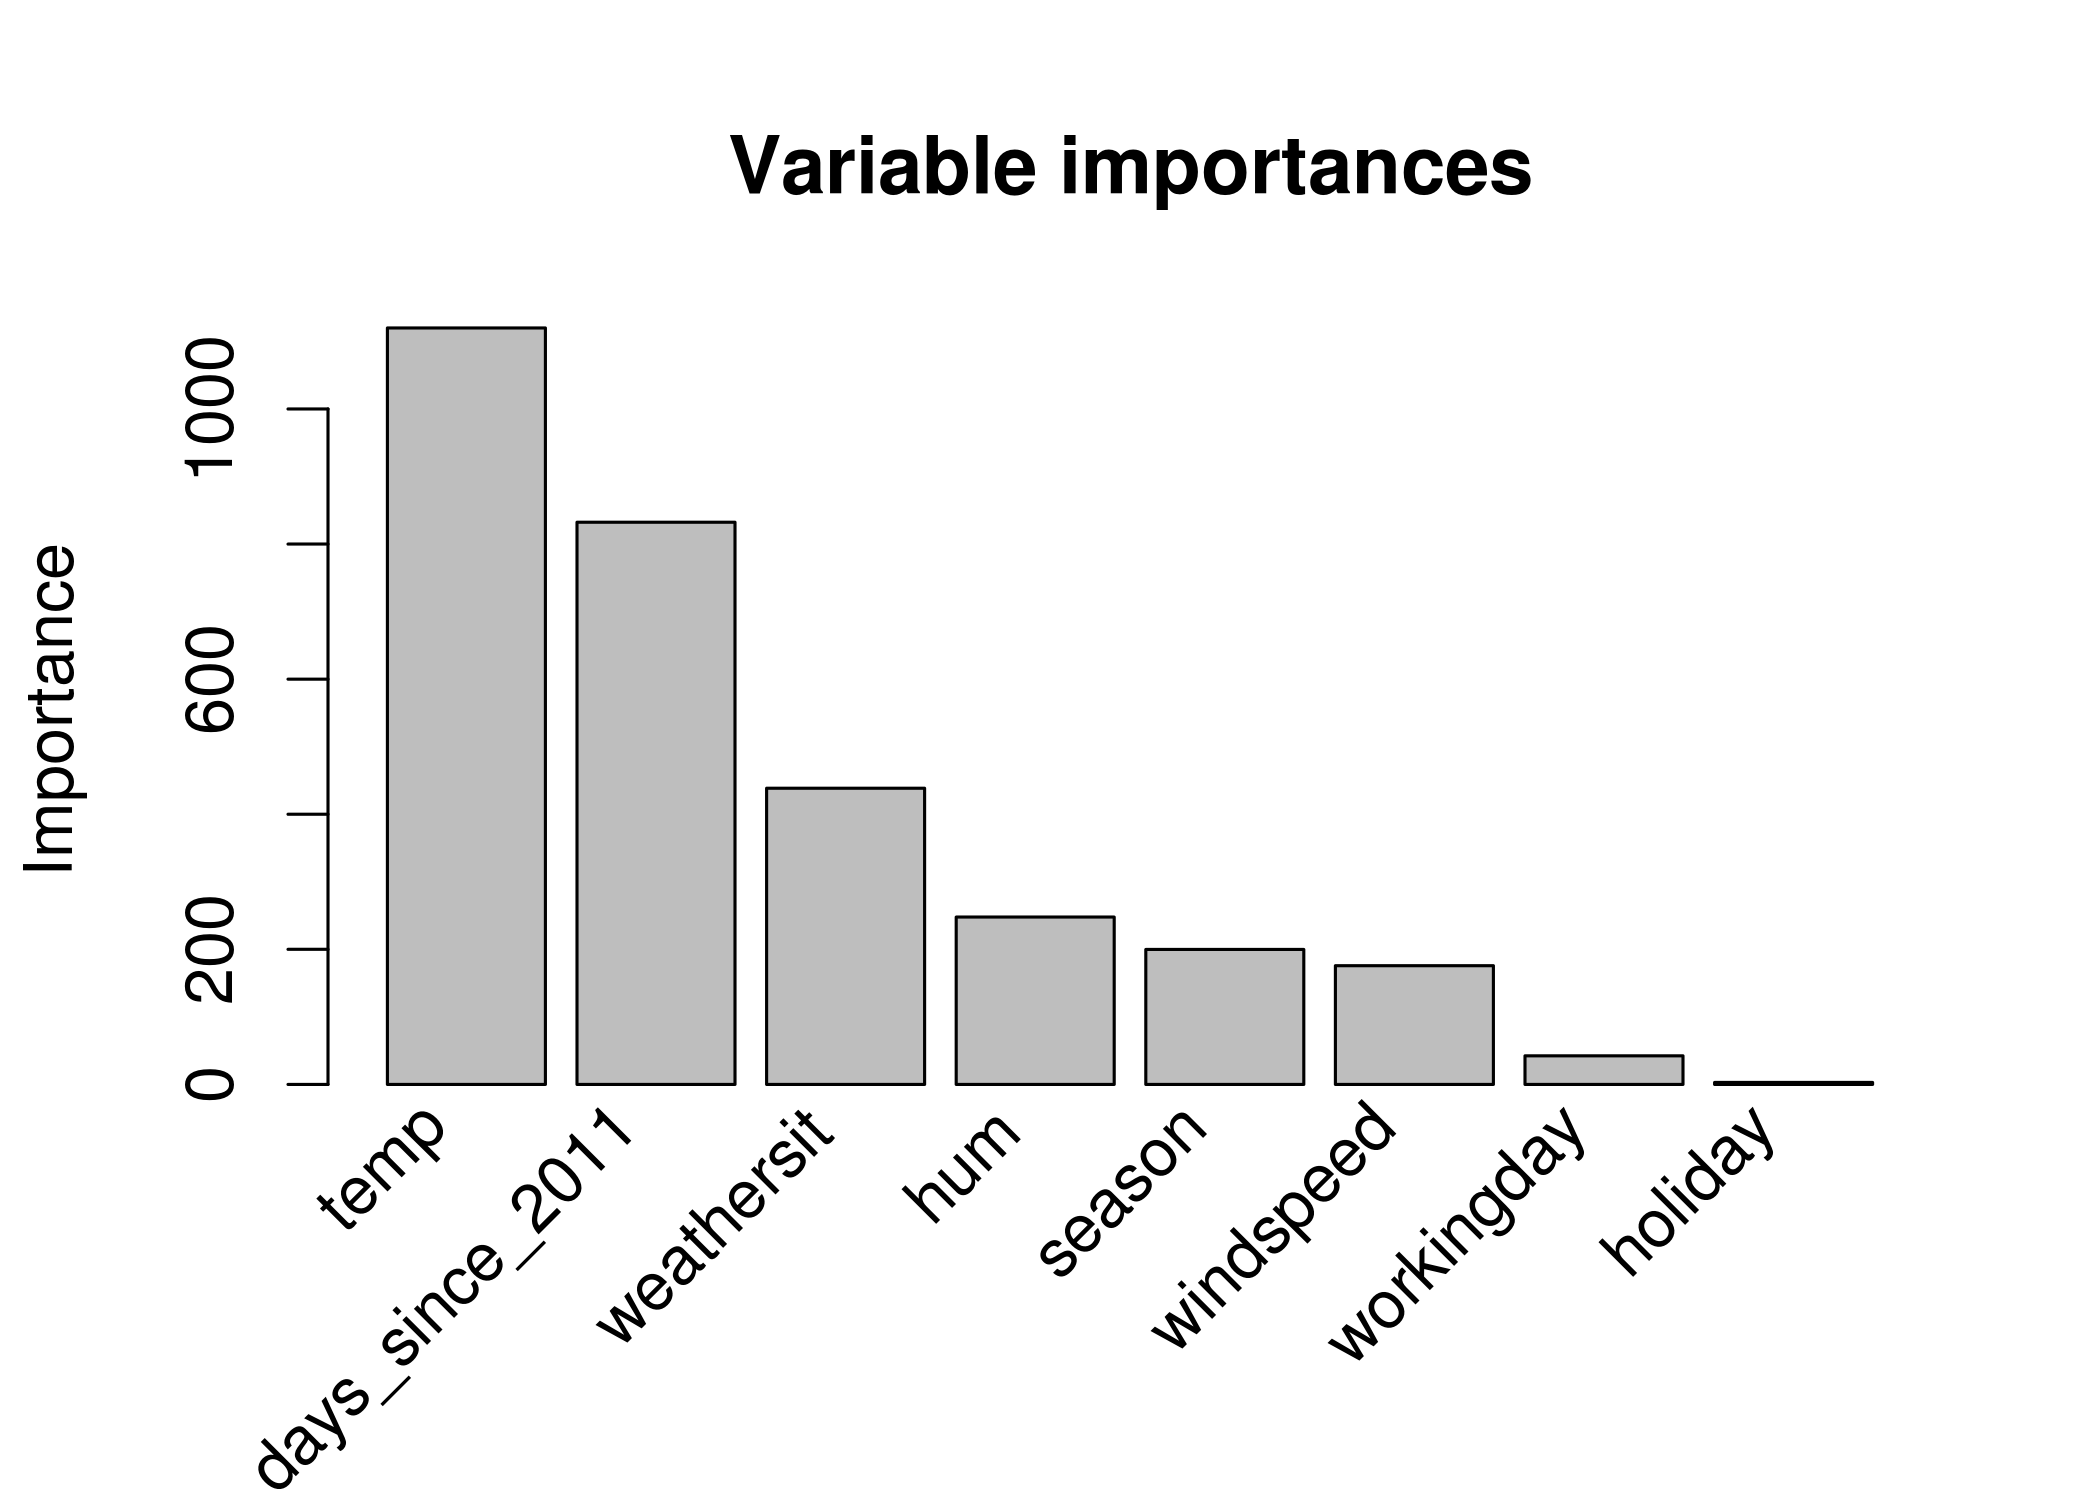
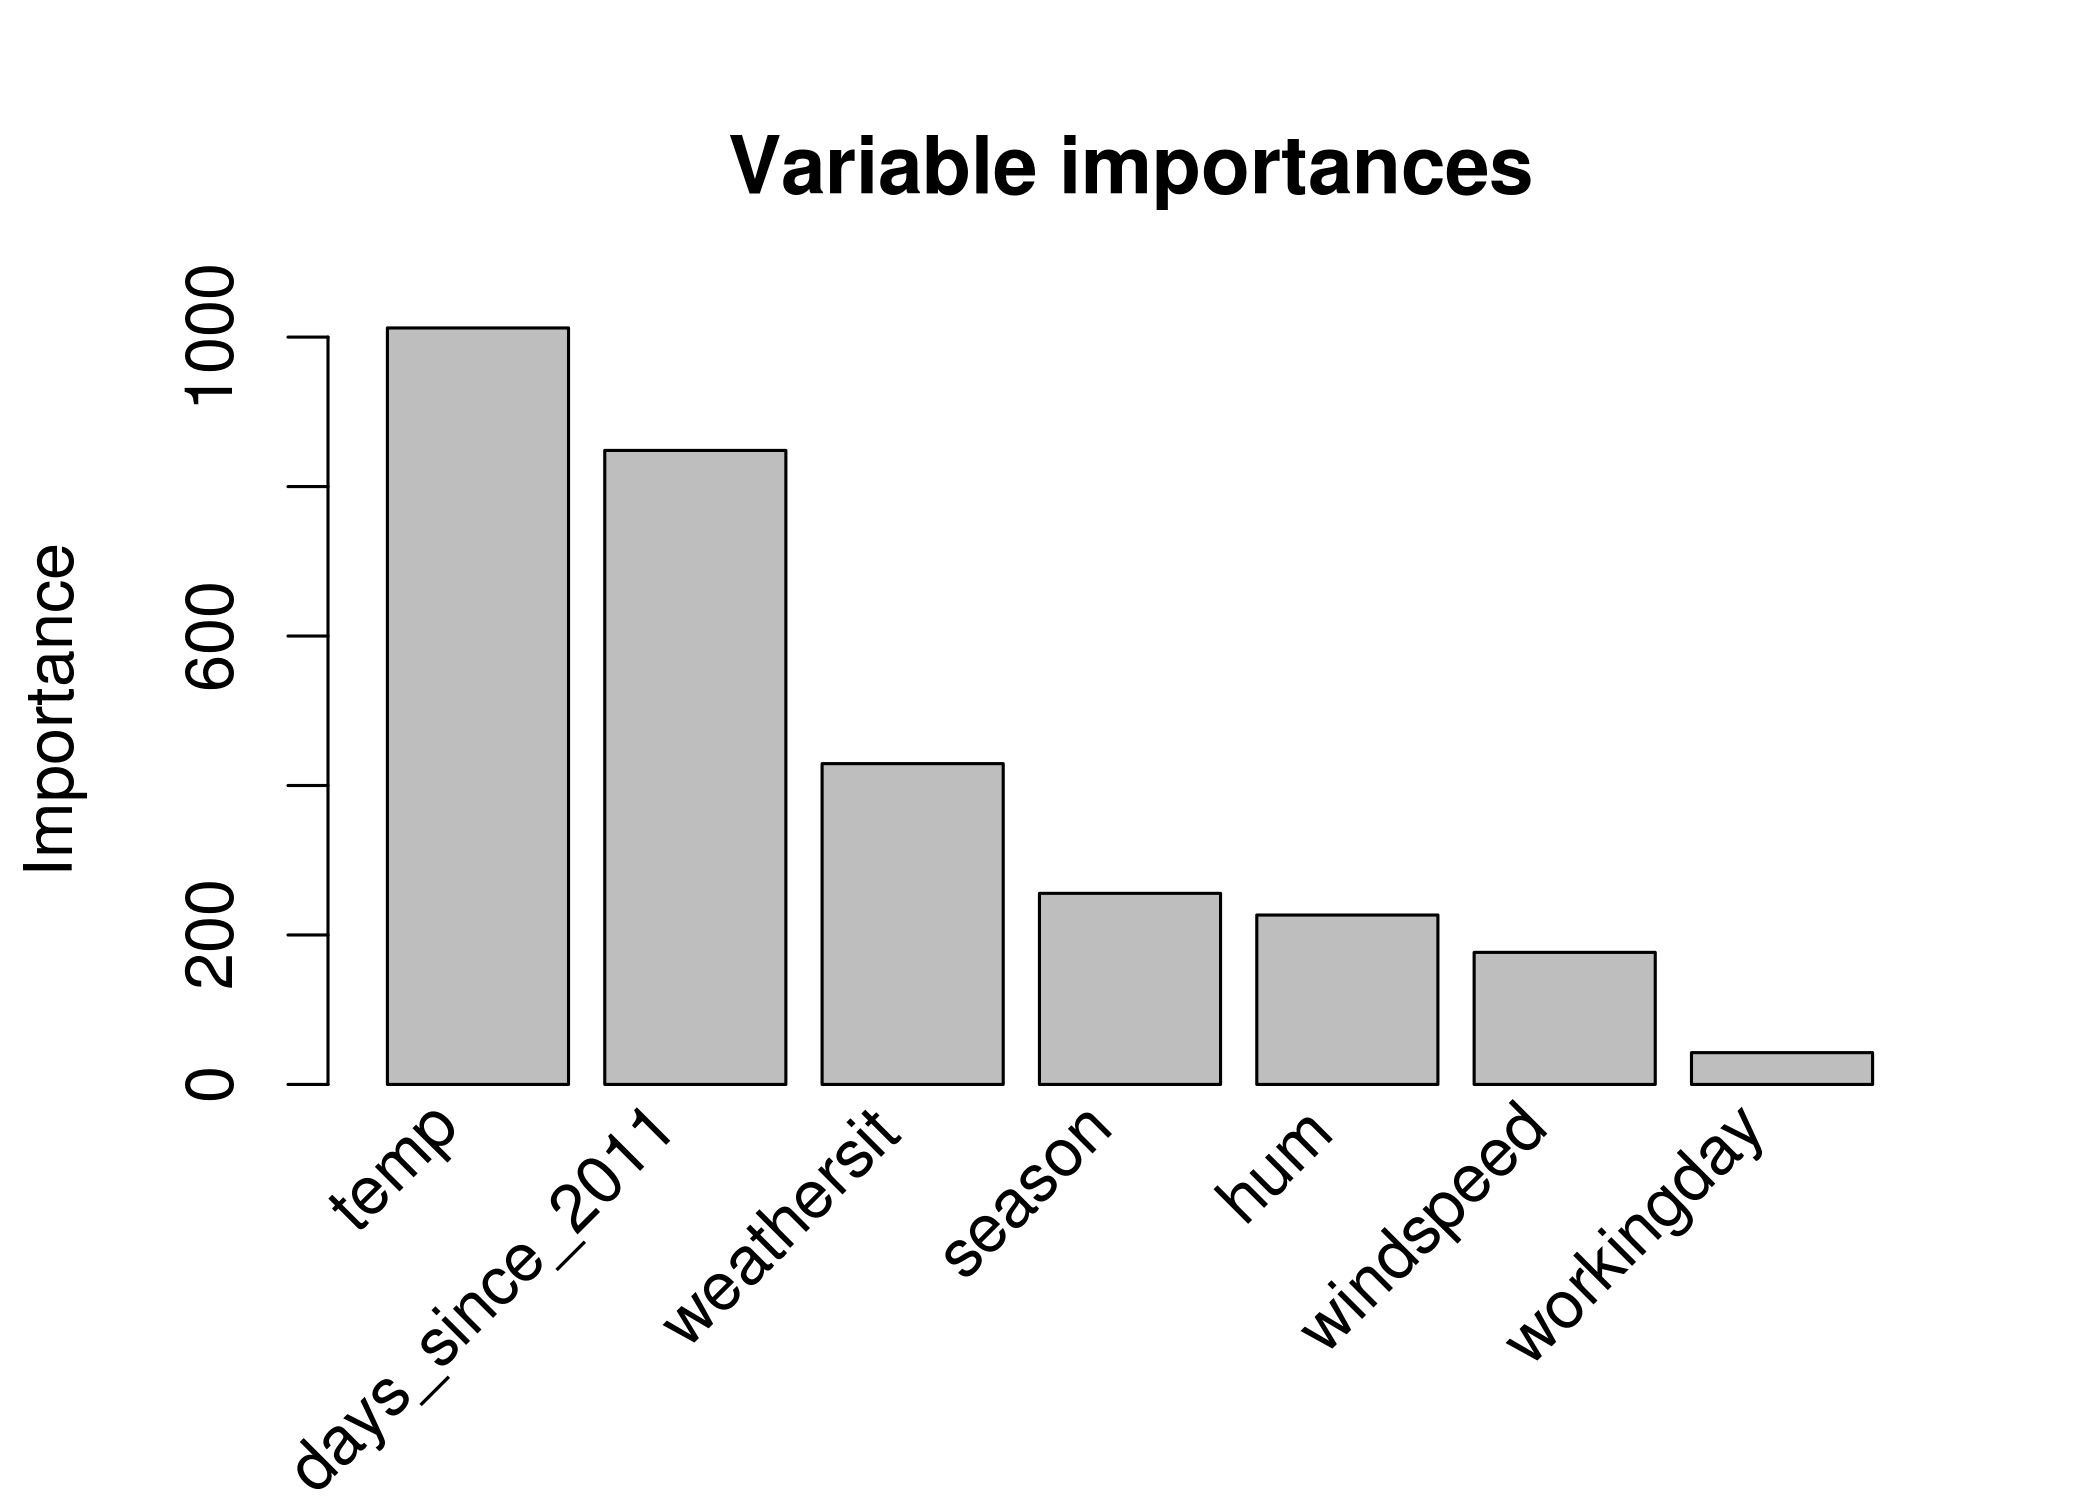
Update book (travis build 999)

diff --git a/rulefit.html b/rulefit.html
@@ -327,33 +327,33 @@ FIGURE 5.19: 4 rules can be generated from a tree with 3 terminal nodes.
 </thead>
 <tbody>
 <tr class="odd">
-<td align="left">days_since_2011 &gt; 428 &amp; temp &gt; 5.199151</td>
-<td align="right">590</td>
-<td align="right">288</td>
-</tr>
-<tr class="even">
-<td align="left">37.45835 &lt;= hum &lt;= 90.156225</td>
-<td align="right">-18</td>
-<td align="right">248</td>
-</tr>
-<tr class="odd">
 <td align="left">days_since_2011 &gt; 111 &amp; weathersit in (“GOOD”, “MISTY”)</td>
-<td align="right">598</td>
-<td align="right">228</td>
+<td align="right">664</td>
+<td align="right">253</td>
 </tr>
 <tr class="even">
-<td align="left">temp &gt; 8.058349 &amp; weathersit in (“GOOD”, “MISTY”)</td>
-<td align="right">506</td>
+<td align="left">37.25 &lt;= hum &lt;= 90</td>
+<td align="right">-17</td>
 <td align="right">227</td>
 </tr>
 <tr class="odd">
-<td align="left">temp &gt; 13.228349 &amp; days_since_2011 &gt; 554</td>
-<td align="right">522</td>
-<td align="right">186</td>
+<td align="left">days_since_2011 &gt; 428 &amp; temp &gt; 5</td>
+<td align="right">460</td>
+<td align="right">225</td>
+</tr>
+<tr class="even">
+<td align="left">temp &gt; 13 &amp; days_since_2011 &gt; 554</td>
+<td align="right">550</td>
+<td align="right">194</td>
+</tr>
+<tr class="odd">
+<td align="left">temp &gt; 8 &amp; weathersit in (“GOOD”, “MISTY”)</td>
+<td align="right">409</td>
+<td align="right">188</td>
 </tr>
 </tbody>
 </table>
-<p>The most important rule was: “days_since_2011 &gt; 428 &amp; temp &gt; 5.199151” and the associated weight is 590.1. The interpretation is: If days_since_2011 &gt; 428 &amp; temp &gt; 5.199151, then the predicted number of bikes increases by 590.1, given all other features values stay fixed. In total, 335 such rules were created from the original 8 features. Quite a lot! But thanks to Lasso, only 34 of the 335 got a weight different from zero.</p>
+<p>The most important rule was: “days_since_2011 &gt; 111 &amp; weathersit in (”GOOD“,”MISTY“)” and the associated weight is 664.2. The interpretation is: If days_since_2011 &gt; 111 &amp; weathersit in (“GOOD”, “MISTY”), then the predicted number of bikes increases by 664.2, given all other features values stay fixed. In total, 278 such rules were created from the original 8 features. Quite a lot! But thanks to Lasso, only 39 of the 278 got a weight different from zero.</p>
 <p>Computing the global feature importances reveals that temperature and the time trend are the most important features:</p>
 <div class="figure"><span id="fig:rulefit-importance"></span>
 <img src="images/rulefit-importance-1.png" alt="Feature importance measures for a RuleFit model predicting bike counts. The most important features for the predictions were temperature and the time trend." width="1050" />
